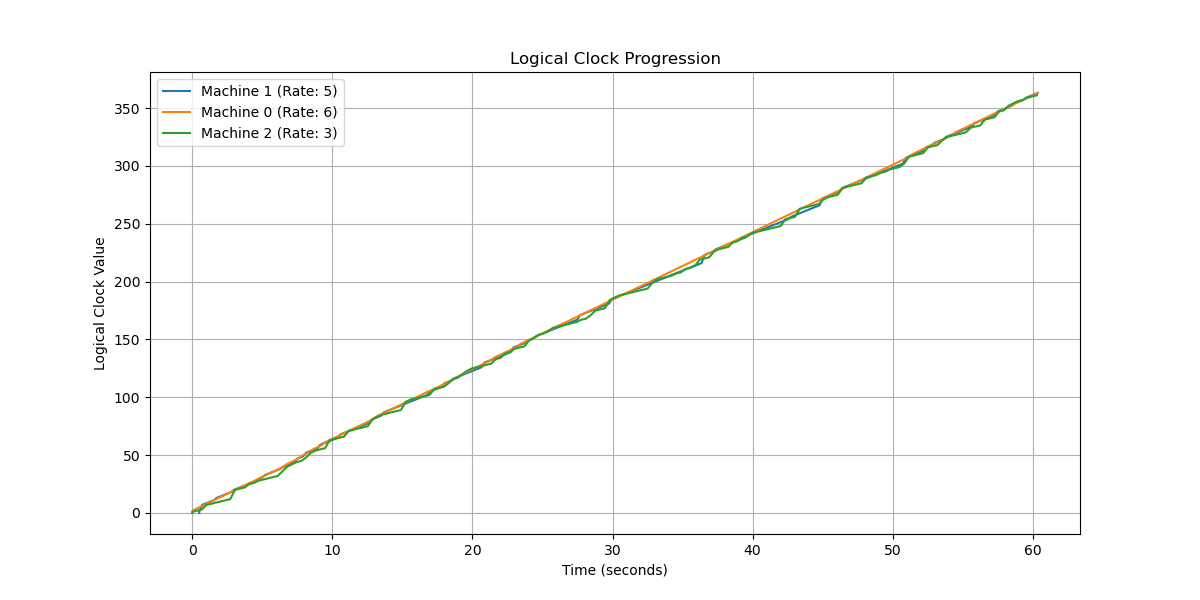
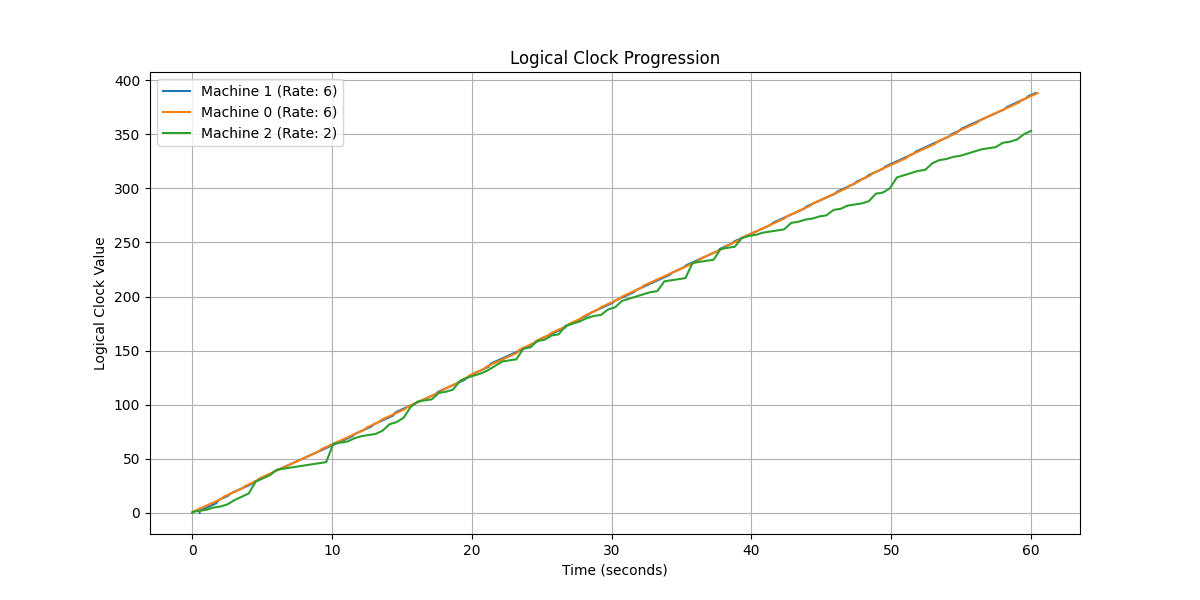
updated graphs

diff --git a/run_system.py b/run_system.py
@@ -179,6 +179,9 @@ if __name__ == "__main__":
         
         # 3. Run experiment with smaller probability of internal events
         run_experiment("small_internal_prob", 3, 8000, 60, 0.4, None)
+
+        # 4. Run experiment with 5 machines
+        run_experiment("5_machines", 5, 8000, 60)
         
         print("\nAll experiments completed successfully!")
     

diff --git a/notebook.md b/notebook.md
@@ -54,3 +54,15 @@ Answers:
 * Slow machines spend a lot of their time processing received messages. See trial 4 for the largest effect! Also, generally, the slower machine will do this.
 
 
+## Some useful graphs
+
+### Normal trial example:
+![Event Distribution](logs/original_trial5/plots/event_distribution.png)
+![Logical Clocks](logs/original_trial5/plots/queue_sizes.png)
+![Queue Sizes](logs/original_trial5/plots/queue_sizes.png)
+
+### Small Internal Probability - Variations
+![Showing more lagging](logs/small_internal_prob/plots/logical_clocks.png)
+
+### 5 Machines - Variations
+![5 Machines](logs/5_machines/plots/logical_clocks.png)
